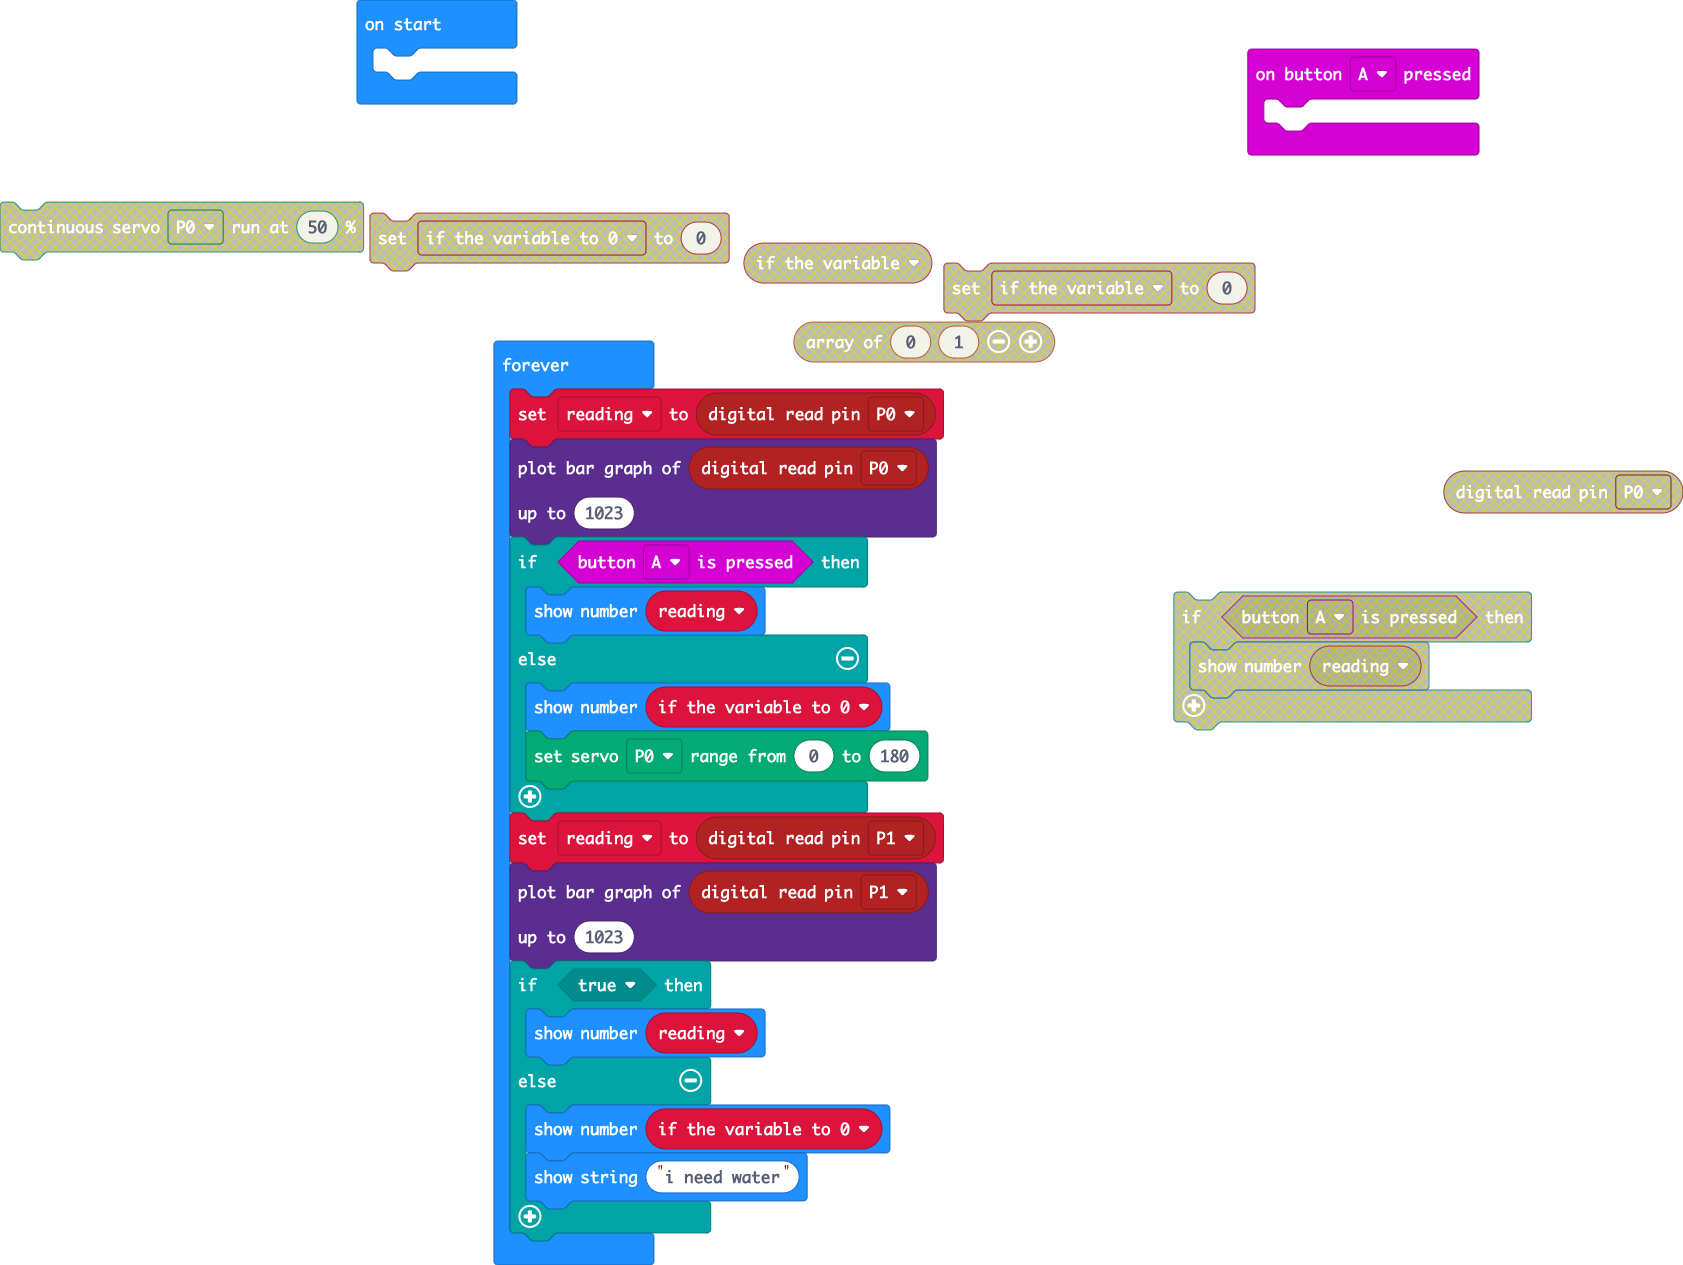
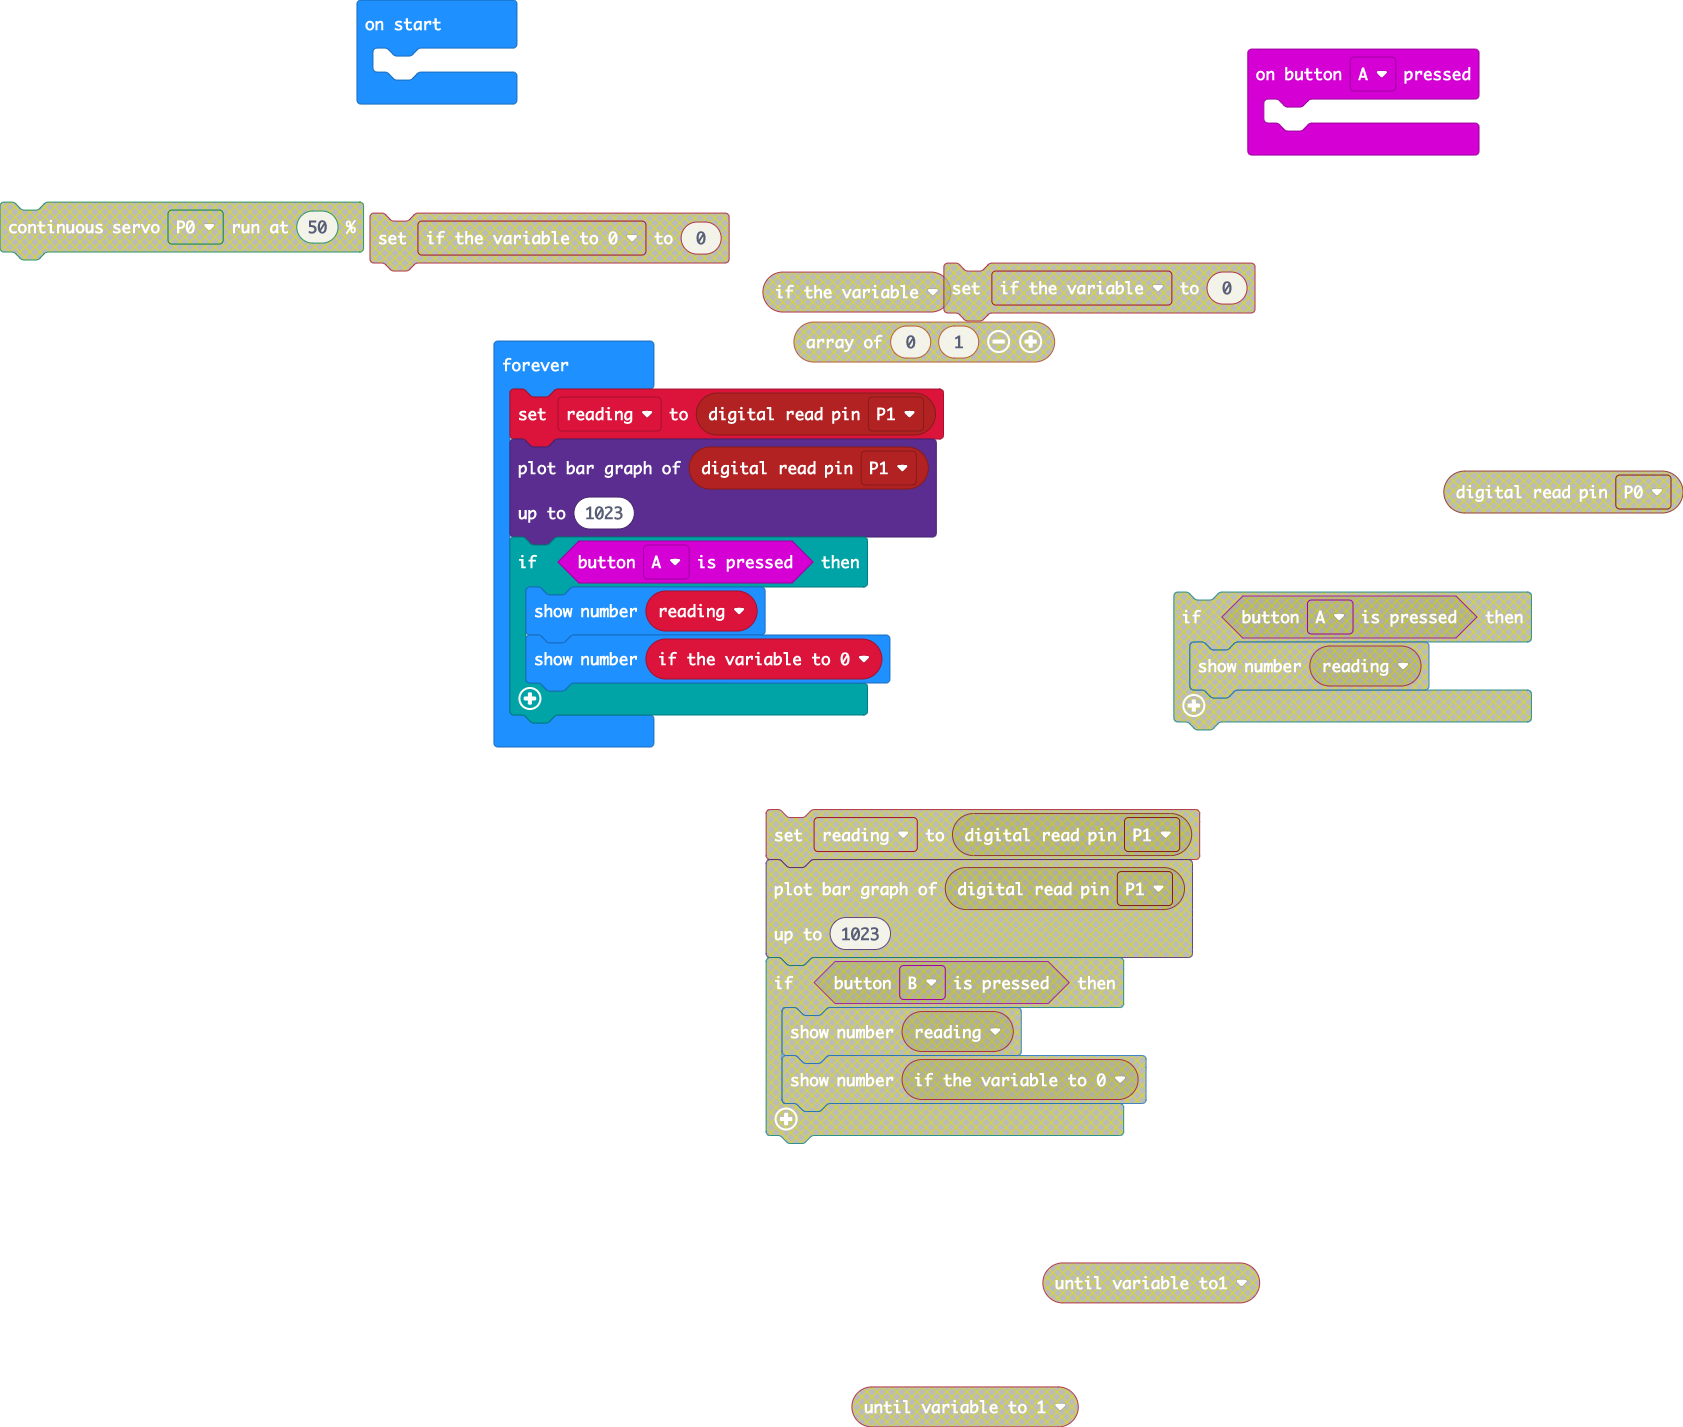
Update main.blocks, main.ts

diff --git a/main.ts b/main.ts
@@ -3,27 +3,14 @@ input.onButtonPressed(Button.A, function () {
 	
 })
 basic.forever(function () {
-    let if_the_variable_to_0 = 0
-    reading = pins.digitalReadPin(DigitalPin.P0)
-    led.plotBarGraph(
-    pins.digitalReadPin(DigitalPin.P0),
-    1023
-    )
-    if (input.buttonIsPressed(Button.A)) {
-        basic.showNumber(reading)
-    } else {
-        basic.showNumber(if_the_variable_to_0)
-        servos.P0.setRange(0, 180)
-    }
     reading = pins.digitalReadPin(DigitalPin.P1)
     led.plotBarGraph(
     pins.digitalReadPin(DigitalPin.P1),
     1023
     )
-    if (true) {
+    if (input.buttonIsPressed(Button.A)) {
+        let if_the_variable_to_0 = 0
         basic.showNumber(reading)
-    } else {
         basic.showNumber(if_the_variable_to_0)
-        basic.showString("i need water")
     }
 })
